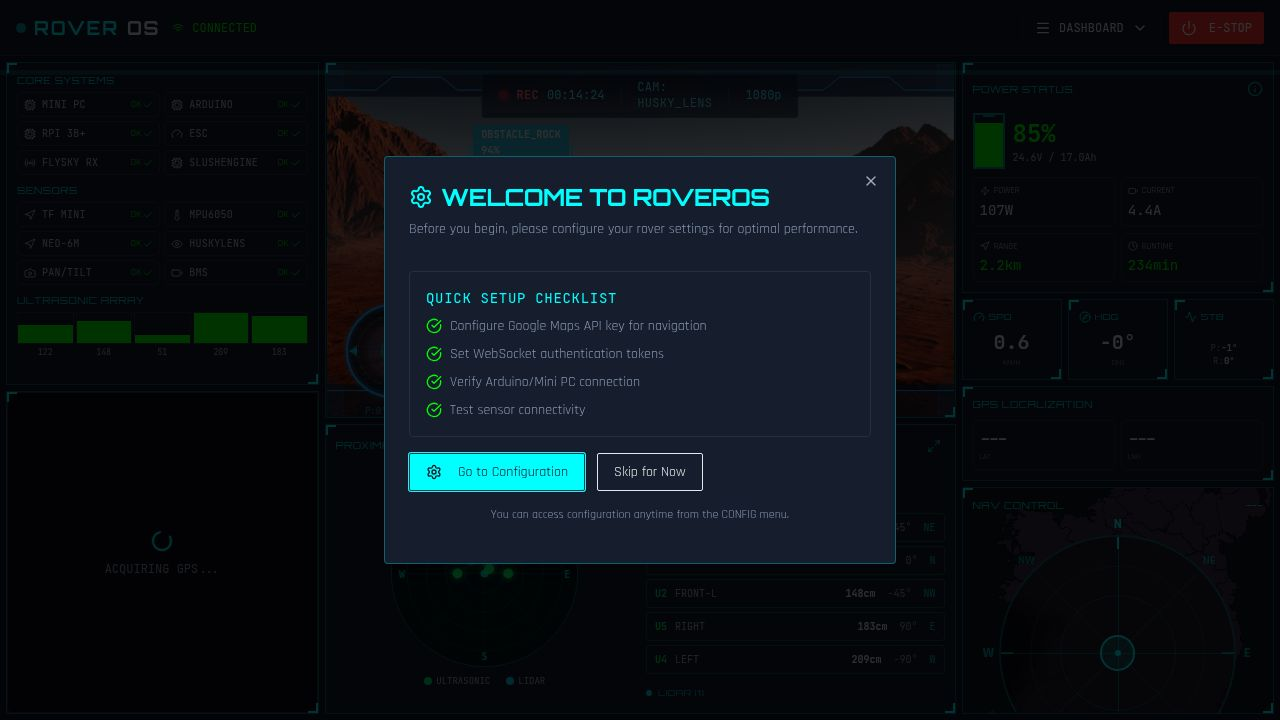
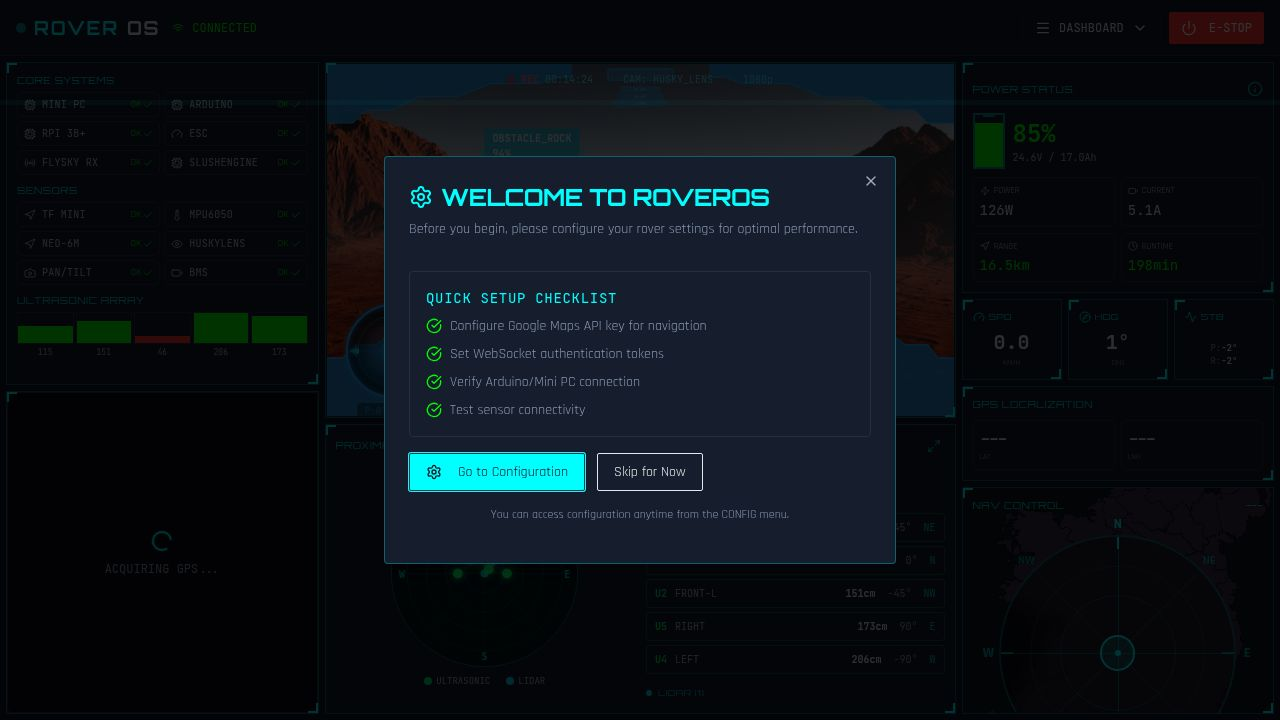
Update HUD overlay to use a PNG image for exact design matching
Replaces the SVG-based HUD overlay with a transparent PNG image to precisely match the new design specifications, ensuring exact visual fidelity.

Replit-Commit-Author: Agent
Replit-Commit-Session-Id: 67529002-f5cf-46ac-a0ae-7a74fd99f252
Replit-Commit-Checkpoint-Type: full_checkpoint
Replit-Commit-Event-Id: 59088ea2-2732-46d8-a20a-735e3fef3c5a
Replit-Commit-Screenshot-Url: https://storage.googleapis.com/screenshot-production-us-central1/9b4fc033-f0b9-4851-a2bf-8089906dc1e5/67529002-f5cf-46ac-a0ae-7a74fd99f252/albDV7L
Replit-Helium-Checkpoint-Created: true

diff --git a/client/src/components/HaloHudOverlay.tsx b/client/src/components/HaloHudOverlay.tsx
@@ -2,6 +2,7 @@ import { useState } from 'react';
 import { motion } from 'framer-motion';
 import { RotateCcw } from 'lucide-react';
 import { useWebSocket } from '@/lib/useWebSocket';
+import haloHudImage from '@assets/halo-3-hud-transparent-v2_1767569975623.png';
 
 interface HaloHudOverlayProps {
   recordingTime: number;
@@ -27,186 +28,33 @@ export function HaloHudOverlay({ recordingTime, detectedObjects, isDemoMode }: H
 
   return (
     <div className="absolute inset-0 pointer-events-none overflow-hidden">
-      <svg 
-        className="absolute inset-0 w-full h-full" 
-        viewBox="0 0 1920 1080" 
-        preserveAspectRatio="xMidYMid slice"
-      >
-        <defs>
-          <filter id="hudGlow">
-            <feGaussianBlur stdDeviation="2" result="blur"/>
-            <feMerge>
-              <feMergeNode in="blur"/>
-              <feMergeNode in="SourceGraphic"/>
-            </feMerge>
-          </filter>
-          <filter id="hudGlowStrong">
-            <feGaussianBlur stdDeviation="4" result="blur"/>
-            <feMerge>
-              <feMergeNode in="blur"/>
-              <feMergeNode in="SourceGraphic"/>
-            </feMerge>
-          </filter>
-          <linearGradient id="lineGradient" x1="0%" y1="0%" x2="100%" y2="0%">
-            <stop offset="0%" stopColor="#25A8FF" stopOpacity="0.3" />
-            <stop offset="50%" stopColor="#25A8FF" stopOpacity="1" />
-            <stop offset="100%" stopColor="#25A8FF" stopOpacity="0.3" />
-          </linearGradient>
-        </defs>
+      <img 
+        src={haloHudImage} 
+        alt="" 
+        className="absolute inset-0 w-full h-full object-cover"
+        style={{ 
+          objectFit: 'fill',
+          imageRendering: 'crisp-edges'
+        }}
+      />
 
-        <rect x="0" y="0" width="1920" height="100" fill="rgba(10, 25, 47, 0.7)" />
-        
-        <path
-          d="M 0 80 L 150 80 L 200 40 L 350 40 L 400 80 L 600 80"
-          fill="none"
-          stroke="#25A8FF"
-          strokeWidth="2"
-          filter="url(#hudGlow)"
-        />
-        <path
-          d="M 1920 80 L 1770 80 L 1720 40 L 1570 40 L 1520 80 L 1320 80"
-          fill="none"
-          stroke="#25A8FF"
-          strokeWidth="2"
-          filter="url(#hudGlow)"
-        />
-        
-        <path
-          d="M 600 80 L 650 50 L 750 50 L 780 25"
-          fill="none"
-          stroke="#25A8FF"
-          strokeWidth="1.5"
-          strokeOpacity="0.7"
-        />
-        <path
-          d="M 1320 80 L 1270 50 L 1170 50 L 1140 25"
-          fill="none"
-          stroke="#25A8FF"
-          strokeWidth="1.5"
-          strokeOpacity="0.7"
-        />
-        
-        <path
-          d="M 780 25 L 850 25 L 880 10 L 960 10"
-          fill="none"
-          stroke="#25A8FF"
-          strokeWidth="1"
-          strokeOpacity="0.5"
-        />
-        <path
-          d="M 1140 25 L 1070 25 L 1040 10 L 960 10"
-          fill="none"
-          stroke="#25A8FF"
-          strokeWidth="1"
-          strokeOpacity="0.5"
-        />
-        
-        <polygon
-          points="0,0 0,120 30,120 50,90 50,0"
-          fill="rgba(37, 168, 255, 0.1)"
-          stroke="#25A8FF"
-          strokeWidth="1"
-          strokeOpacity="0.5"
-        />
-        <polygon
-          points="1920,0 1920,120 1890,120 1870,90 1870,0"
-          fill="rgba(37, 168, 255, 0.1)"
-          stroke="#25A8FF"
-          strokeWidth="1"
-          strokeOpacity="0.5"
-        />
-
-        <rect x="0" y="980" width="1920" height="100" fill="rgba(10, 25, 47, 0.7)" />
-        
-        <path
-          d="M 0 1000 L 200 1000 L 280 1040 L 500 1040"
-          fill="none"
-          stroke="#25A8FF"
-          strokeWidth="2"
-          filter="url(#hudGlow)"
-        />
-        <path
-          d="M 1920 1000 L 1720 1000 L 1640 1040 L 1420 1040"
-          fill="none"
-          stroke="#25A8FF"
-          strokeWidth="2"
-          filter="url(#hudGlow)"
-        />
-        
-        <path
-          d="M 500 1040 L 600 1020 L 750 1020 L 850 1050 L 960 1050"
-          fill="none"
-          stroke="#25A8FF"
-          strokeWidth="1.5"
-          strokeOpacity="0.8"
-        />
-        <path
-          d="M 1420 1040 L 1320 1020 L 1170 1020 L 1070 1050 L 960 1050"
-          fill="none"
-          stroke="#25A8FF"
-          strokeWidth="1.5"
-          strokeOpacity="0.8"
-        />
-        
-        <polygon
-          points="0,1080 0,960 30,960 50,990 50,1080"
-          fill="rgba(37, 168, 255, 0.1)"
-          stroke="#25A8FF"
-          strokeWidth="1"
-          strokeOpacity="0.5"
-        />
-        <polygon
-          points="1920,1080 1920,960 1890,960 1870,990 1870,1080"
-          fill="rgba(37, 168, 255, 0.1)"
-          stroke="#25A8FF"
-          strokeWidth="1"
-          strokeOpacity="0.5"
-        />
-
-        <line x1="860" y1="1000" x2="900" y2="1000" stroke="#25A8FF" strokeWidth="1" strokeOpacity="0.6" />
-        <text x="910" y="1005" fill="#25A8FF" fontSize="14" fontFamily="monospace" opacity="0.8">5 MTS</text>
-        
-        <line x1="820" y1="980" x2="870" y2="980" stroke="#25A8FF" strokeWidth="1" strokeOpacity="0.5" />
-        <text x="880" y="985" fill="#25A8FF" fontSize="12" fontFamily="monospace" opacity="0.6">10 MTS</text>
-        
-        <line x1="780" y1="960" x2="840" y2="960" stroke="#25A8FF" strokeWidth="1" strokeOpacity="0.4" />
-        <text x="850" y="965" fill="#25A8FF" fontSize="10" fontFamily="monospace" opacity="0.5">15 MTS</text>
-        
-        <line x1="1060" y1="1000" x2="1020" y2="1000" stroke="#25A8FF" strokeWidth="1" strokeOpacity="0.6" />
-        <line x1="1100" y1="980" x2="1050" y2="980" stroke="#25A8FF" strokeWidth="1" strokeOpacity="0.5" />
-        <line x1="1140" y1="960" x2="1080" y2="960" stroke="#25A8FF" strokeWidth="1" strokeOpacity="0.4" />
-
-        <g filter="url(#hudGlow)">
-          <line x1="930" y1="520" x2="950" y2="540" stroke="#25A8FF" strokeWidth="1.5" />
-          <line x1="990" y1="520" x2="970" y2="540" stroke="#25A8FF" strokeWidth="1.5" />
-          <line x1="930" y1="560" x2="950" y2="540" stroke="#25A8FF" strokeWidth="1.5" />
-          <line x1="990" y1="560" x2="970" y2="540" stroke="#25A8FF" strokeWidth="1.5" />
-          <circle cx="960" cy="540" r="3" fill="none" stroke="#25A8FF" strokeWidth="1" />
-        </g>
-
-        <line x1="0" y1="200" x2="0" y2="400" stroke="#25A8FF" strokeWidth="3" strokeOpacity="0.3" />
-        <line x1="0" y1="680" x2="0" y2="880" stroke="#25A8FF" strokeWidth="3" strokeOpacity="0.3" />
-        <line x1="1920" y1="200" x2="1920" y2="400" stroke="#25A8FF" strokeWidth="3" strokeOpacity="0.3" />
-        <line x1="1920" y1="680" x2="1920" y2="880" stroke="#25A8FF" strokeWidth="3" strokeOpacity="0.3" />
-      </svg>
-
-      <div className="absolute top-2 left-1/2 -translate-x-1/2 pointer-events-auto z-10">
-        <div className="flex items-center gap-4 text-xs font-mono px-4 py-1.5 rounded bg-slate-900/60 backdrop-blur-sm border border-cyan-500/20">
-          <div className="flex items-center gap-2">
-            <div className="w-2.5 h-2.5 rounded-full bg-red-500 animate-pulse shadow-[0_0_8px_rgba(239,68,68,0.8)]" />
-            <span className="text-red-400 font-bold tracking-wide">REC</span>
-            <span className="text-cyan-300 font-medium">{formatTime(recordingTime)}</span>
+      <div className="absolute top-[1.5%] left-1/2 -translate-x-1/2 pointer-events-auto z-10">
+        <div className="flex items-center gap-3 text-[10px] font-mono">
+          <div className="flex items-center gap-1.5">
+            <div className="w-2 h-2 rounded-full bg-red-500 animate-pulse shadow-[0_0_6px_rgba(239,68,68,0.8)]" />
+            <span className="text-red-400 font-bold">REC</span>
+            <span className="text-cyan-300">{formatTime(recordingTime)}</span>
           </div>
-          <div className="w-px h-4 bg-cyan-500/30" />
-          <span className="text-cyan-300/90 tracking-wide">CAM: HUSKY_LENS</span>
-          <div className="w-px h-4 bg-cyan-500/30" />
+          <span className="text-cyan-400/40">|</span>
+          <span className="text-cyan-300/90">CAM: HUSKY_LENS</span>
+          <span className="text-cyan-400/40">|</span>
           <span className="text-cyan-300/90">1080p</span>
         </div>
       </div>
 
       {isDemoMode && (
-        <div className="absolute top-2 right-4 bg-cyan-500/20 border border-cyan-400/40 px-3 py-1 rounded text-xs font-mono text-cyan-300 pointer-events-auto backdrop-blur-sm">
-          DEMO MODE
+        <div className="absolute top-[10%] right-[15%] bg-cyan-500/20 border border-cyan-400/40 px-2 py-0.5 rounded text-[9px] font-mono text-cyan-300 pointer-events-auto">
+          DEMO
         </div>
       )}
 
